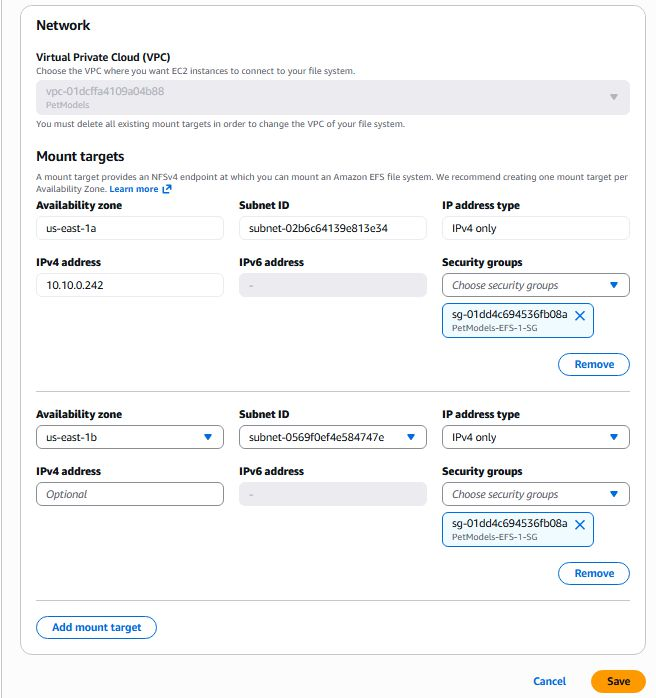
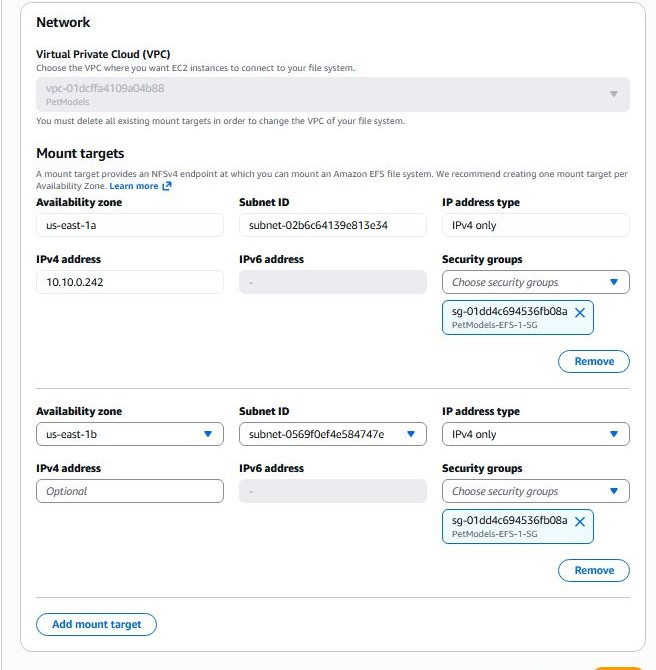
1st final draft

diff --git a/SimuLearn/File_Systems_In_The_Cloud.MD b/SimuLearn/File_Systems_In_The_Cloud.MD
@@ -1,27 +1,57 @@
-# File Systems In The Cloud
+<details>
+<summary>Click For Author Details</summary>  
 
-## Goal
-The Goal of the simulearn lab was to assist a pet modeling agency to share files across its branch offices without managing the physical infrastructure.
+### 🖊 Author
+---
+
+**Full Name:** Isaac Maake  
+**Current Focus:** AWS Cloud Engineering & AI/ML Systems  
+**Special Interests:** Agentic AI, Machine Learning, Cloud Architecture, Pythonista, Sim Racing 🙂
+**Based in:** Johannesburg, South Africa  
+> “Building systems that turn ideas into scalable intelligence.”
+---
+**LinkedIn:** [LinkedIn](https://www.linkedin.com/in/isaac-maake-198910/) 
+---
+
+</details>
+
+---
+# AWS SimuLearn: File Systems In The Cloud
+
+---
+## 1. Goal
+The Goal of the simulearn lab was to provide an AWS solution to assist a pet modeling agency to share files across its branch offices without managing the physical infrastructure.
 
 ### The Situation at the Company is as follows:
----
-The pet modeling agency wants a way to share files across its branch offices without managing physical storage infrastructure. In the past year, they have established **three new company branches in the city**. Each branch has its own pet image server that connects to a local client management application. Each server stores images of all our pet clients along with informational metadata. We use a custom application to sync the client data across all three branches. But it takes too much time to access the images, and it's not always consistent. Our synching solution fails sometimes because one branch server might run out of storage space. We need a solution that centralizes our image storage and scales automatically. all branches access and update the same pet client files. And we have certain folders for our VIP clients that only our concierge team has access to.
----
-#### The situation at the agency can be visualized as follows:
-![Agency Arch Diag](./Resources/FileSystemsInTheCloud/PetsShopOriginalArch.drawio.svg)
 
-#### AWS Solution to the Agency's I.T issues
+The pet modeling agency wants a way to share files across its branch offices without managing physical storage infrastructure. In the past year, they have established **three new company branches in the city**. Each branch has its own pet image server that connects to a local client management application. Each server stores images of all our pet clients along with informational metadata. We use a custom application to sync the client data across all three branches. But it takes too much time to access the images, and it's not always consistent. Our synching solution fails sometimes because one branch server might run out of storage space. We need a solution that centralizes our image storage and scales automatically. all branches access and update the same pet client files. And we have certain folders for our VIP clients that only our concierge team has access to.
+
+#### The situation at the agency can be visualized as follows:
+Click to expand the image
+<a href="./Resources/FileSystemsInTheCloud/PetsShopOriginalArch.drawio.svg">
+  <img src="./Resources/FileSystemsInTheCloud/PetsShopOriginalArch.drawio.svg" 
+       alt="Agency Arch Diag" 
+       style="width: 100%; max-width: 900px; height: auto;">
+</a>
+
+---
+## 2. AWS Solution to the Agency's I.T issues
 In summary, the agency's issues are centered around *Files Management and Storage*. Their other concerns regard latency issues, access management, synchronization, service availability, and scalability of resources as demand increases.
 
 Amazon EFS meets the agency's requirements as follows"
-- The agency can create *shared network drives* so that the branches can access pet client photos from a *central location*, instead of files and folders residing in discrete and isolated locations.
+- The agency can create *shared network drives* so that the branches can access pet client photos from a *central location*, instead of files and folders residing in discrete and isolated servers that need frequent syncing. With AWS EFS, storage is central and compute is distributed.
 - They can *restrict access* with *file-level permissions* allowing the concierge team and the VIP client's maximum privacy.
 - Amazon EFS provides *petabyte-scale storage* that *grows and shrinks* automatically as you add and remove files. This saves the agency money as they need not buy bigger storage for their servers or EC2 instances which they may not size appropriately (paying for unused storage)
 - Amazon EFS is *highly available* and is designed for *99.999999999 percent durability*. Its a service that is always online and highly accessible/available.
 
 ### The Proposed AWS Solution
 The proposed AWS EFS solution can be visualised below:
-![*image from the actual lab. Property of AWS Simulearn*](./Resources/FileSystemsInTheCloud/img5.jpg)
+
+<a href="./Resources/FileSystemsInTheCloud/img5.jpg">
+  <img src="./Resources/FileSystemsInTheCloud/img5.jpg" 
+       alt="image from the actual lab. Property of AWS Simulearn" 
+       style="width: 100%; max-width: 900px; height: auto;">
+</a>
 
 #### The solution is further explained below:
 - A web server is provisioned to a nearby availability zone that is closer to each branch, to eliminate/deal with latency, and to be a dedicated server for a specific office only. 
@@ -29,3 +59,126 @@ The proposed AWS EFS solution can be visualised below:
 - A mount target is created for the EFS, that provides an IP address endpoint for instances to connect to the file system. Web servers mount the target from their respective AZ (availability Zones) as a local folder on the instance.
 - Instances interact with the EFS file system as local storage, **with changes visible to all authorized instances**
 - As the agency grows, **with more files and folders to be stored (and accessed), more branches opened world wide meaning more employees, clients and VIP clients**, the file system (AWS EFS) automatically scales based on data volume. The file system accommodates additional instances through mount target creation and attachment in the appropriate AZ.
+
+### Implementing the AWS EFS Solution
+The Workflow for creating an AWS solution (any solution actualy) for a client can be generally summarized as follows:
+* Requirements Gathering - understanding the business.
+* VPC Design - The company creates an AWS account for use with subnets in different AZ as needed.
+* Security Design - e.g., Allow inbound NFS (TCP 2049) only from EC2 instances selected (EFS security). Create EC2 security groups to allow out bound to EFS and inbound from company's ip addresses.
+* Create the EFS File system - Create the file system and configure it according to the client's requirements (naming, Encryption at rest, performance, throughput mode(bursting/provisioned)), etc
+* Create Mount Points/targets per AZ
+* Create EC2 instances - for each AZ. Attach roles or security groups as needed.
+* Mount EC2 to EFS - via CLI in the management console.
+* Solution Testing - simulate the client's day to day work and verify to ensure alignment with the requirements and that the client's needs are met. Simulate multi-instance file sharing across AZ'z, permission rules, performance under load, etc.
+* Project Sign Off and Recommendations - If the cloud architect (practitioner in this case🤦♂️) AWS solution met the requirements and the client is satisfied/happy, the client will sign-off the requirements document again and any work done on the project that was recorded by the Business Analyst.
+
+In this Simulearn task, the workflow will not be followed as described above as some resources have already been created for us. Below I cover the work done / lessons covered in the lab as arranged, although you will notice that all the steps of the workflow were covered except the last two workflows. *The process of creating an AWS account and logging in wont be covered here.*
+
+1. Requirements Gathering : business first! Know the client's needs/problems/pain points with regards to their solutions/services. Gather all the details about their services features (latency rewuirements, security, availability etc) in order to make an informed decision about the suitable AWS services that will meet their needs. At the end of this process, a requirements document is created, shared, and agreed upon.
+
+The Agency's pain points have been identified in the [Goal Section](#the-situation-at-the-company-is-as-follows). We will not create a proper requirements document for this scenario as it has quite few pain points and for an AWS practitioner, the solution is straight forward. The solution is provided in [Section 2](#2-aws-solution-to-the-agencys-it-issues).
+
+2. In the Simulearn environment, three EC2 instances were already created for us each in its designated AZ is US-East. We assume the agency's branches to be in the region US-East and closer to the assigned AZ.
+![Web servers (EC2 instances) already created](./Resources/FileSystemsInTheCloud/img9.jpg)
+
+The webservers were already configured with a security group, were in a running state, and and were of a t3.micro type (suitable for labs mainly).
+![Security Group configured for the Web Servers](./Resources/FileSystemsInTheCloud/img12.jpg)
+
+The security group for the EFS service was also created as well. It contains 1 inbound and outbound rules, and it restricts access to web servers only. 
+![Security Group Config for AWS EFS](./Resources/FileSystemsInTheCloud/img15.jpg)
+
+3. The next task was to create the AWS EFS system from the management console. Clicking the "Create File System" allows us to proceed further to create and configure the EFS.
+![EFS Page on the Management Console](./Resources/FileSystemsInTheCloud/img18.jpg)
+
+On the modal shown below, provide the name and the vpc to be used by the EFS, then click "Customize" to add more configurations:
+![EFS Page on the Management Console](./Resources/FileSystemsInTheCloud/img21.jpg)
+
+Next we go through some predefined steps in the Management Console to configure and create the EFS service. The steps are as follows:
+
+* File System Settings - name, we configure the EFS by providing the names and selecting the services/features that will meet our client's needs. The following configurations were made/selected: 
+- 
+    - The name - A clear, unique and sound name was chosen.
+    - A regional file system type to support the agency's branches across the region
+    - Auto-Backups and life cycle management option were not selected as the client did not mention them.
+    -  The bursting throughput mode was selected for throughput to scale with the workload. 
+![EFS Page on the Management Console](./Resources/FileSystemsInTheCloud/img24.jpg)
+
+* Next, we setup the Network Access - The VPC of the pet models agency was selected, as well as the mount targets for all the three web servers. The mount targets specify the AZ, security groups, and the related vpc details. If a mounting target for a specific AZ is not added, the web servers in that AZ will not connect to the EFS.  **NB**: *Only two are shown the image below*, but all three mount targets were created for the Webservers in the different AZ's, to meet the agency's need for all the 3 company branches. 
+
+![Two mount targets created](./Resources/FileSystemsInTheCloud/img44.jpg)
+
+**NB**: *You have to wait for the status of the mount point to change to **available** before it can be used for mounting.* See the image below:
+
+![An available mount point and a recently added mount point](./Resources/FileSystemsInTheCloud/img47.jpg)
+
+* Next, we configure the File System Policy. Although this step was skipped in the lab, its a very important step as it aligns with the client's requirements. As the agency already mentioned that other employees have access to specific folders and that the concierge team and VIP clients have access to specific folders, this step allows us to meet that requirement. On the file system policy step, the following can be configured, to name a few:
+    * Prevent root access - no user can gain root access and modify system level files or execute system wide commands
+    * Other employees can be given access to their specific folders and be restricted to VIP folders.
+    * Concierge team can be allowed access to all folder types.
+    * VIP clients can be allowed access to VIP folders only.
+    * Prevent anonymous access to maximise the File System security.
+    * Enforce encryption rules for(specific) files and/or folders.
+
+![Policy Config Step for the EFS](./Resources/FileSystemsInTheCloud/img30.jpg)
+
+This step is very crucial and AWS must include it in the future to give practitioners a real experience of how policies work! Without file system policy anyone with network access could mount the EFS! Combining security groups and file system policies ensures maximum security.
+
+* The next Step is to Review and Create the EFS. The page simply provides all the configs you made in one page for review. If all is well, simply click the "Create File System" button. 
+
+![Review and Create the EFS](./Resources/FileSystemsInTheCloud/img31.jpg)
+
+
+Thus 4 steps were followed to confifure the EFS: **File system settings, Network Access, File System Policy, and Review**. 
+
+When the EFS is created, wait for its status to change to available! 
+
+![The EFS successfuly created](./Resources/FileSystemsInTheCloud/img34.jpg)
+
+4. Mount EFS on EC2.
+* To proceed, open the EFS page which provides more details and functionality to use and configure EFS.
+
+![The PetModel's EFS page](./Resources/FileSystemsInTheCloud/img37.jpg)
+
+Click "Attach" button on the above page to access some important info.
+
+* To mount EFS on EC2, configure the EFS to mount via DNS and note the CLI command to create a mounting point on EC2 using the EFS mount helper.
+
+![The Modal with details to Attach the EFS](./Resources/FileSystemsInTheCloud/img40.jpg)
+
+We made use of the EC2 instance's SSH Session Manager to connect and configure the instances and to create a mounting point. The following tasks were completed on each web server, via the ssh session manager CLI and root access, in order to mount the EFS to the web servers successfuly:
+* 
+    * Installing the amazon EFS utilities - an official AWS package that makes mounting and using the EFS from linux instances easy.
+    
+    ![CLI interface showing the EFS utilities installed on an instance](./Resources/FileSystemsInTheCloud/img41.jpg)
+
+    * Created a "data" folder on each instance - this is the folder that is used as the mounting point for all the instances. This means that the data folder becomes the entry point to the EFS system, meaning its the specific location where EFS is accessible. Since all instances were mounted on the same directory location (data dir), all instances will see the same files. For our agency client, all photos and folders will be accessed and stored in the EFS via the data directory.
+    * A mount cli command  was excuted to allow the EFS to mount the EC2 via the data directory.
+    * A log file was created inside the folder to log a record whenever the EFS was successfuly mounted on the EC2. *See the image below which shows the contents of the log file from Webserver 3, even though the log file's line 1 and 2 were added by separate web servers where the log file resides separately.*
+
+    ![Webserver 3 cli window with the log file contents](./Resources/FileSystemsInTheCloud/img48.jpg)
+---
+## 3. Challenge Completed
+The challenge was completed successfully and a completion certificate was awarded 🙂.
+
+![Completion Certificate](./Resources/FileSystemsInTheCloud/img55.jpg)
+---
+## 4. Lessons Learnt
+Below I would like to reflect on some things I learnt and found helpful.
+* Understanding the client problem very well will allow an AWS Cloud practitioner to provide a better AWS solution to the client that is cost effective and aligned to the business needs without surprise costs.
+* EFS File Policy setup is a must if a company has different employee roles, clients, and applications that access the EFS for various reasons.
+* Mounting the EFS on the same path of each EC2 instance makes file sharing easier because all instances see the same files. Data (folders, photos, and files) are consistent across the servers, all branch offices see/access the same files, syncronization is no longer an issue. Ensure that you mount to an empty path.
+---
+## Lab Details
+<details>
+<summary>Click To Expand</summary>
+
+**Lab link** -> [link](https://skillbuilder.aws/learn/A5M8X2CHM3/aws-simulearn-file-systems-in-the-cloud/)
+Search for *AWS SimuLearn: File Systems in the Cloud* on AWS SkillBuilder
+**Completed On**: 20 May 2026
+**Course Details**: AWS re/Start with **Praesignis**(AWS SA Partner)
+
+</details>
+
+---
+  
+